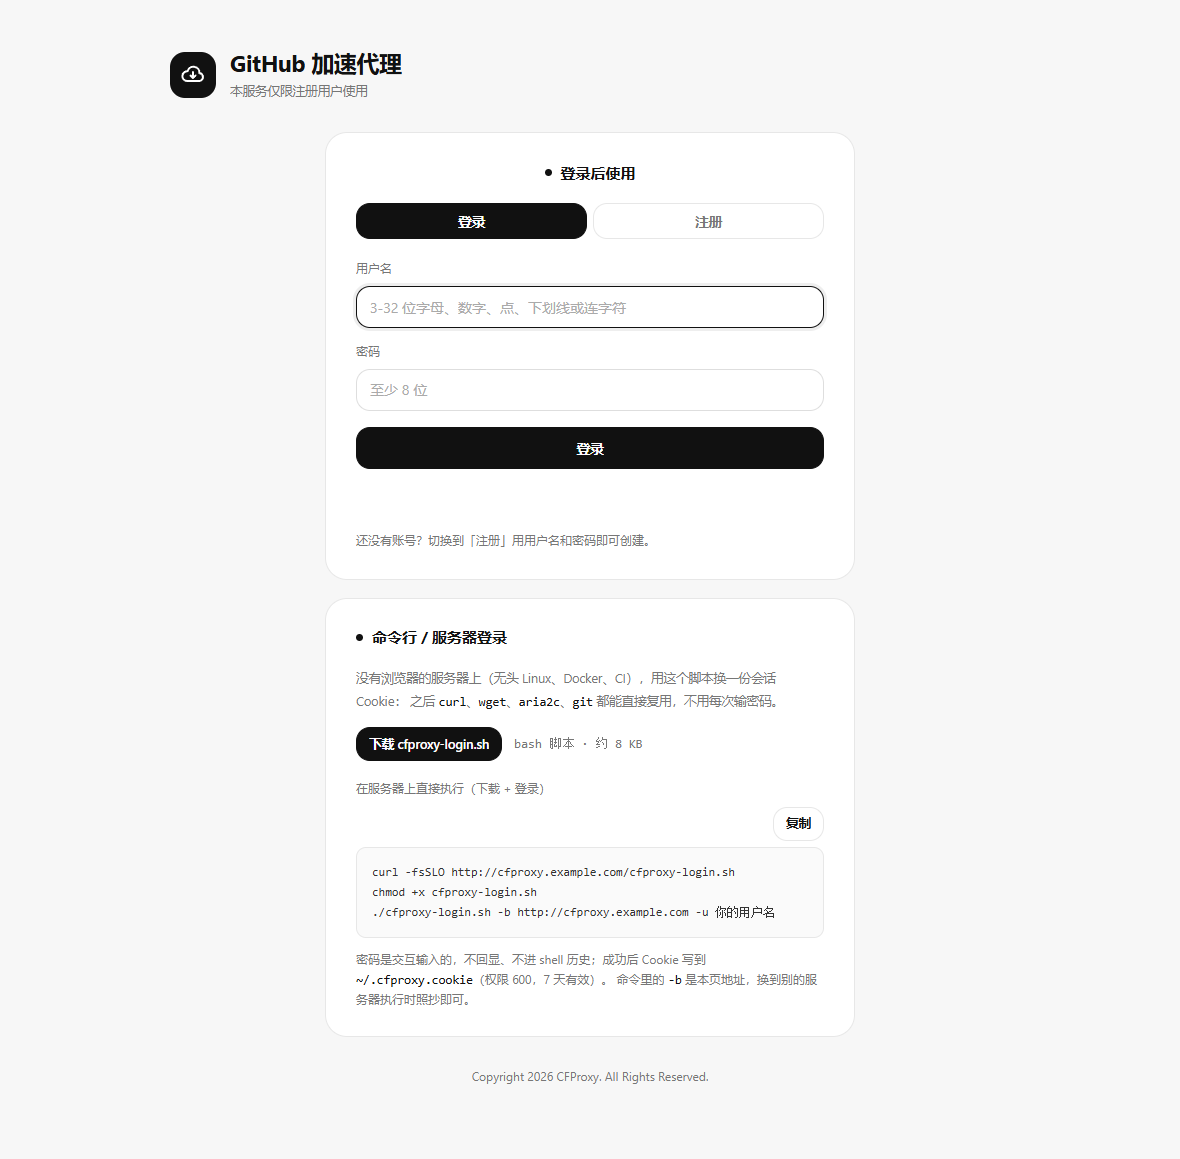
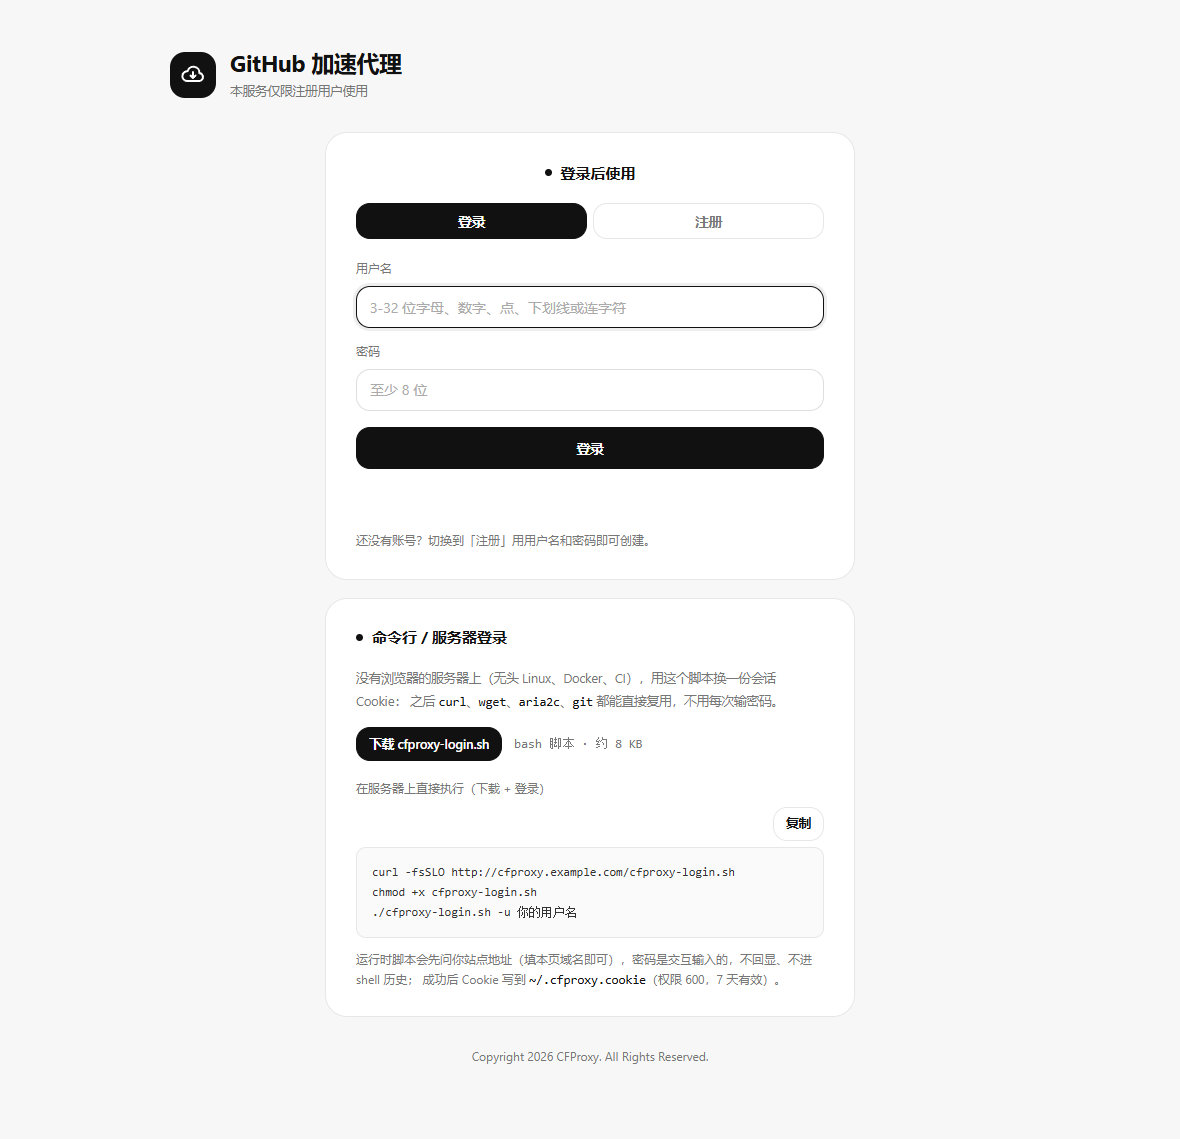
feat: 登录脚本缺省时交互询问站点地址
- 不再要求 -b：没给站点地址就先问一句，输入为空才退出码 2
- 仍支持 -b / CF_BASE，写 cron 时用它跳过提示
- 登录页与主页的命令块去掉 -b，只留 -u
- README 参数表与示例同步；截图重拍
- 测试断言改为「命令不含 -b」「脚本含站点地址提示」

diff --git a/public/index.html b/public/index.html
@@ -84,7 +84,7 @@
         <pre class="code soft" id="dlCode"></pre>
       </div>
 
-      <label for="loginCode" class="cli-label">2 · 登录（密码交互输入，不回显）</label>
+      <label for="loginCode" class="cli-label">2 · 登录（会询问站点地址，密码交互输入、不回显）</label>
       <div class="code-wrap">
         <div class="code-bar"><button class="ghost small" data-cf-copy="loginCode">复制</button></div>
         <pre class="code soft" id="loginCode"></pre>
@@ -141,8 +141,7 @@
   var CLI_WGET = CLI_ORIGIN + '/https://github.com/torvalds/linux/archive/refs/heads/master.zip';
   var CLI_GIT = CLI_ORIGIN + '/https://github.com/octocat/Hello-World.git';
   $('dlCode').textContent = 'curl -fsSLO ' + CLI_ORIGIN + '/cfproxy-login.sh';
-  $('loginCode').textContent = 'chmod +x cfproxy-login.sh\n./cfproxy-login.sh -b ' +
-    CLI_ORIGIN + ' -u 你的用户名';
+  $('loginCode').textContent = 'chmod +x cfproxy-login.sh\n./cfproxy-login.sh -u 你的用户名';
   $('useCode').textContent = [
     "curl -b ~/.cfproxy.cookie -fLO '" + CLI_SAMPLE + "'",
     "wget --load-cookies ~/.cfproxy.cookie -c '" + CLI_WGET + "'",

diff --git a/test/index.spec.js b/test/index.spec.js
@@ -243,6 +243,8 @@ describe("代理入口", () => {
 		// 脚本里不能写死任何站点域名：自建者的私有地址不该跟着脚本公开出去
 		expect(body).toContain('BASE="${CF_BASE:-}"');
 		expect(body).not.toMatch(/BASE=.*https?:\/\//);
+		// 缺省时先问站点地址，而不是直接报错退出
+		expect(body).toContain("站点地址（例如 https://你的域名）");
 	});
 
 	// 登录页与主页都要给出脚本入口：服务器上的人既可以直接下载，
@@ -257,9 +259,8 @@ describe("代理入口", () => {
 		for (const html of [login, home]) {
 			expect(html).toContain('href="/cfproxy-login.sh"');
 			expect(html).toContain("data-cf-copy=");
-			// 脚本不再写死域名，命令里必须带上 -b
-			expect(html).toContain("cfproxy-login.sh -b");
-			expect(html).toContain("-u 你的用户名");
+			// 脚本不写死域名、缺省交互询问，所以命令里不需要带 -b
+			expect(html).toContain("cfproxy-login.sh -u 你的用户名");
 		}
 		expect(login).toContain('id="cliCode"');
 		expect(home).toContain('id="dlCode"');

diff --git a/public/login.html b/public/login.html
@@ -61,9 +61,8 @@
       <pre class="code soft" id="cliCode"></pre>
     </div>
     <p class="cli-hint">
-      密码是交互输入的，不回显、不进 shell 历史；成功后 Cookie 写到
-      <span class="mono">~/.cfproxy.cookie</span>（权限 600，7 天有效）。
-      命令里的 <span class="mono">-b</span> 是本页地址，换到别的服务器执行时照抄即可。
+      运行时脚本会先问你站点地址（填本页域名即可），密码是交互输入的，不回显、不进 shell 历史；
+      成功后 Cookie 写到 <span class="mono">~/.cfproxy.cookie</span>（权限 600，7 天有效）。
     </p>
   </section>
 
@@ -82,7 +81,7 @@
   $('cliCode').textContent = [
     'curl -fsSLO ' + location.origin + '/cfproxy-login.sh',
     'chmod +x cfproxy-login.sh',
-    './cfproxy-login.sh -b ' + location.origin + ' -u 你的用户名'
+    './cfproxy-login.sh -u 你的用户名'
   ].join('\n');
   CF.copyBind();
 

diff --git a/README.md b/README.md
@@ -195,8 +195,9 @@ git clone https://你的域名/https://github.com/user/repo.git
 curl -fsSLO https://你的域名/cfproxy-login.sh
 chmod +x cfproxy-login.sh
 
-# 登录：密码交互输入，不回显；Cookie 写到 ~/.cfproxy.cookie（权限 600，7 天有效）
-./cfproxy-login.sh -b https://你的域名 -u 你的用户名
+# 登录：依次询问站点地址、用户名、密码（密码不回显）
+# Cookie 写到 ~/.cfproxy.cookie（权限 600，7 天有效）
+./cfproxy-login.sh
 
 # 之后
 curl -b ~/.cfproxy.cookie -fLO 'https://你的域名/https://github.com/user/repo/releases/download/v1/x.zip'
@@ -209,12 +210,12 @@ wget --load-cookies ~/.cfproxy.cookie -c 'https://你的域名/https://github.co
 | --- | --- | --- |
 | `-u` | 用户名，缺省则交互询问 | `CF_USER` |
 | `-p` | 密码，缺省则静默提示 | `CF_PASS` |
-| `-b` | 站点地址（必填），如 `https://你的域名` | `CF_BASE` |
+| `-b` | 站点地址，缺省则交互询问 | `CF_BASE` |
 | `-f` | Cookie 文件，默认 `~/.cfproxy.cookie` | `CF_COOKIE` |
 | `-t` | 只打印会话 token（给 git 的 `extraHeader` 用） | |
 | `-q` | 安静模式，适合 cron / CI | |
 
-> 脚本里不写死任何域名：站点地址必须由 `-b` 或环境变量 `CF_BASE` 给出，漏了会直接报错退出。网页上的命令块已经按当前地址填好，复制即可。
+> 脚本里不写死任何域名：站点地址由 `-b`、环境变量 `CF_BASE` 或交互提示给出。只跑 `./cfproxy-login.sh` 的话，脚本会挨个问站点地址、用户名、密码；写 cron 时用 `CF_BASE` 免得卡在提示上。
 
 写进 crontab 的例子（每天续一次会话）：
 
